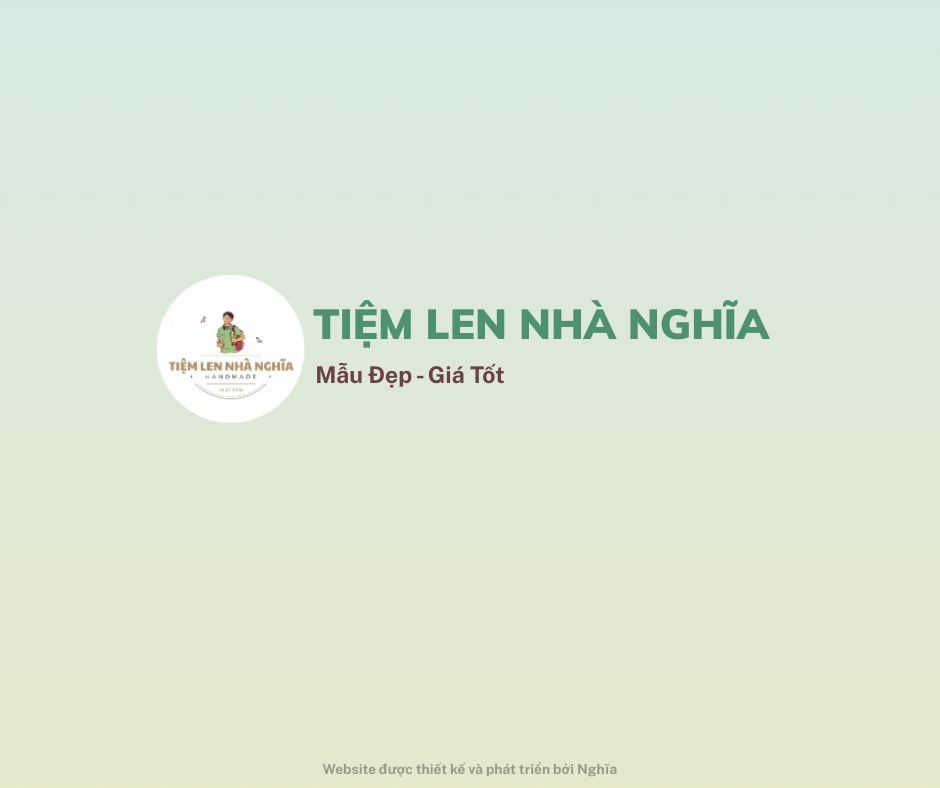
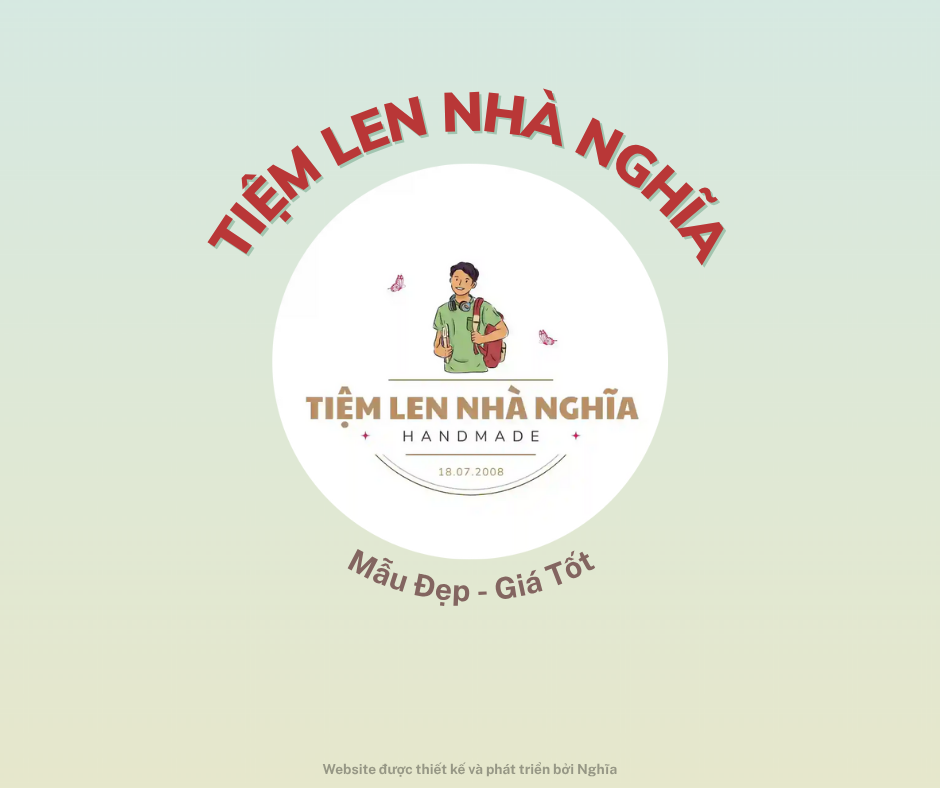
update

Changed region(s): [[0.1543, 0.1218, 0.833, 0.7614]]

diff --git a/index.html b/index.html
@@ -12,7 +12,7 @@
     <meta property="og:url" content="https://trongnghia-htn.github.io/tiemlennhanghia/">
     <meta property="og:type" content="website">
     <meta property="og:site_name" content="Tiệm Len Nhà Nghĩa">
-    <link rel="preload" as="image" href="photos/logo.webp">
+    <link rel="preload" as="image" href="photos/intro.png">
     <link rel="icon" type="image/webp" href="photos/logo.webp">
     <meta name="google-site-verification" content="WgGeR9djbx2N4OKYuFHXf3Wxcw9Tg5i7oXHJkxgwXKE" />
     <meta name="viewport" content="width=device-width, initial-scale=1">
@@ -339,8 +339,8 @@
         }
        
         #intro-overlay h1,
-        #intro-overlay .intro-sub {
-            animation: introScaleFade 1s cubic-bezier(.4,1.6,.6,1) forwards;
+        #intro-overlay img {
+            animation: introScaleFade 1.5s cubic-bezier(.4,1.6,.6,1) forwards;
         }
         .intro-sub {
             font-size: 1em;
@@ -640,9 +640,9 @@
 </head>
 <body class="hidden-body">
     <div id="intro-overlay">
-        <h1 style="font-size:2em;color:#227196c4;font-family:system-ui,sans-serif;text-align:center;">
-            Tiệm Len Nhà Nghĩa</h1>
-        <div class="intro-sub">Mẫu đẹp - Giá tốt</div>
+        <div style="display:flex;flex-direction:column;align-items:center;justify-content:center;min-height:380px;">
+                <img src="photos/intro.png" alt="Tiệm Len Nhà Nghĩa" style="width:440px;max-width:98vw;background:transparent;display:block;margin:auto;box-shadow:none;border-radius:0;">
+        </div>
     </div>
     <div class="row">
         <div onclick="location.reload()" style="cursor:pointer;display:inline-block;">
